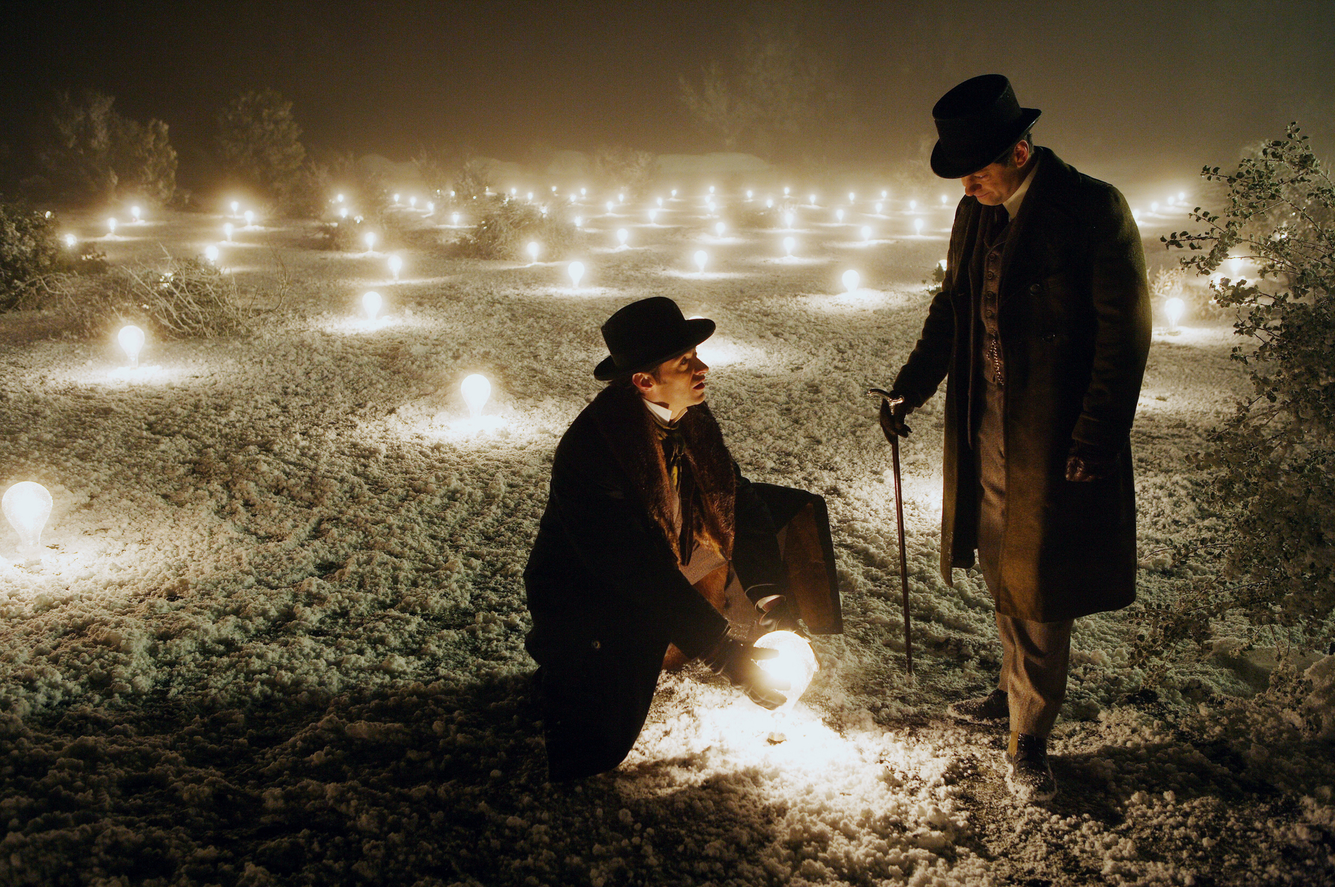
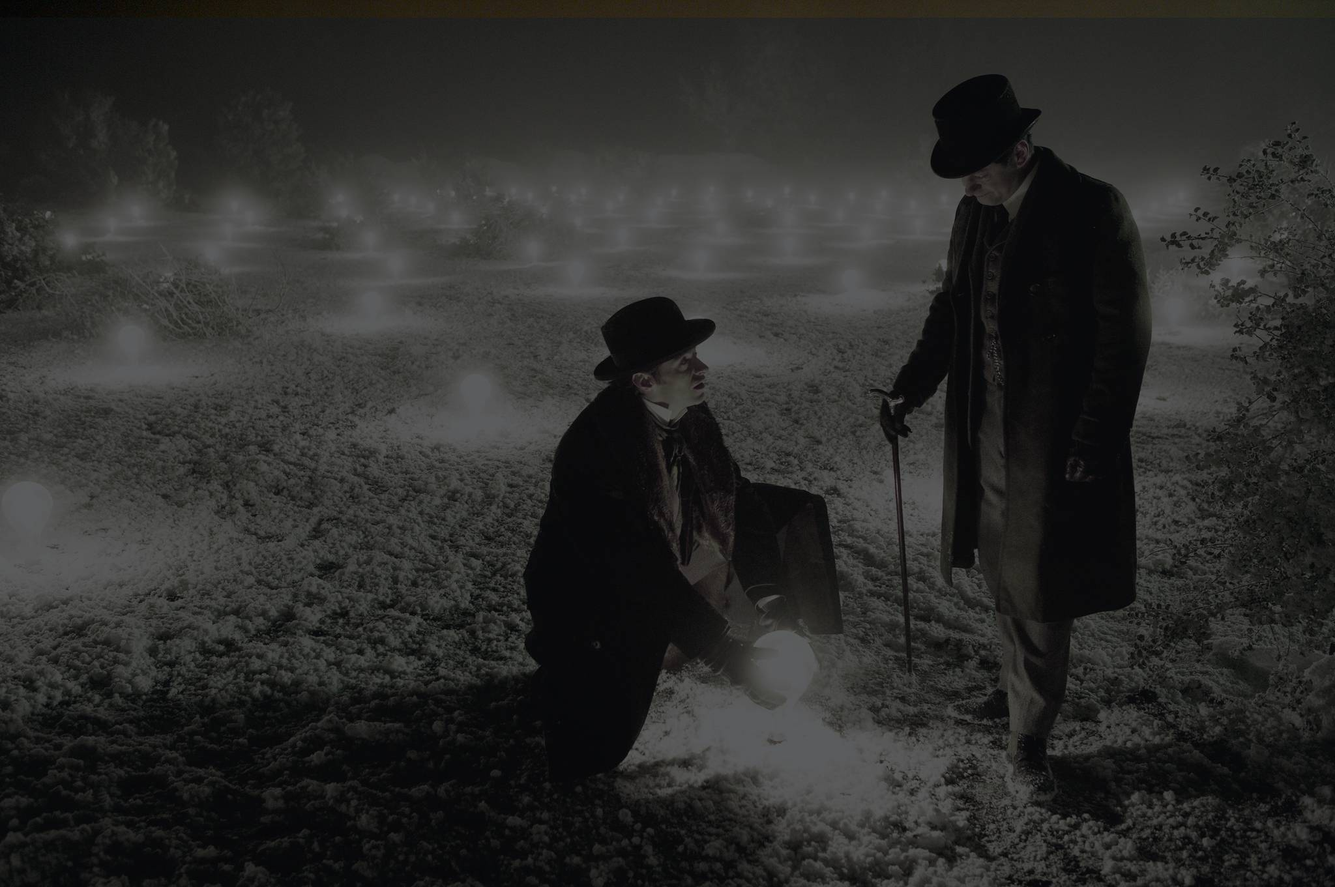
image and styling updates

diff --git a/index.html b/index.html
@@ -78,20 +78,16 @@
           <p class="fragment">...and that's ok</p>
         </section>
         <section>
-          Also, there aren't actually 7-reasons in this talk, so don't bother trying to count in your head. 
+          Also there aren't actually 7 reasons in this talk, so don't bother trying to count in <br> your head. 
         </section>
       </section>
 
-      <section data-background="images/prestige15.jpg">
+      <section data-background="images/prestige15.jpg" class="dark-bg">
         <section>
-          <span class="light">
-            Any sufficiently advanced technology is indistinguishable from magic.
-          </span>
+          Any sufficiently advanced technology is indistinguishable from magic.
         </section>
         <section>
-          <span class="light">
-            Cutting edge technology is just <br> <i>(a little bit)</i> magical.
-          </span>
+          Cutting edge technology is just <br> <i>(a little bit)</i> magical.
         </section>
       </section>
 
@@ -118,8 +114,8 @@
         <section>
           Machine Learning is about structure
         </section>
-        <section data-background="images/metropolis.jpg">
-          <span class="light">AI is about consciousness</span>
+        <section data-background="images/metropolis.jpg" class="dark-bg">
+          AI is about consciousness
         </section>
       </section>
 
@@ -178,8 +174,8 @@
         </section>
       </section>
 
-      <section data-background="images/light-field.png">
-        <h1>The Turn</h1>
+      <section data-background="images/light-field.jpg" class="dark-bg">
+        <h2>The turn</h2>
       </section>
 
       <section>
@@ -213,8 +209,8 @@
         <section>
           Patterns within patterns
         </section>
-        <section data-background="images/the-prestige-2.jpg">
-          <span class="light">"Deep" Learning</span>
+        <section data-background="images/the-prestige-2.jpg" class="dark-bg">
+          "Deep" Learning
         </section>
       </section>
 
@@ -248,16 +244,16 @@
 
       <section>
         <section>
-          The collision of though an information processing.
+          The collision of thought and information&nbsp;processing.
         </section>
         <section>
-          Conciousness is sufficiently advanced technology.
+          Conciousness is sufficiently advanced&nbsp;technology.
         </section>
         <section>
           Conciousness is the greatest magic trick there ever was.
         </section>
-        <section data-background="images/the-prestige.jpg">
-          We are the magician <br> and the audience.
+        <section data-background="images/the-prestige.jpg" class="dark-bg">
+          <h2>We are the magician and&nbsp;the audience</h2>
         </section>
       </section>
 

diff --git a/css/theme/ak.css b/css/theme/ak.css
@@ -95,7 +95,7 @@ body {
   font-weight: 700;
   line-height: 1.2;
   letter-spacing: normal;
-  text-transform: capitalize;
+  text-transform: none;
   text-shadow: none;
   word-wrap: break-word; }
 
@@ -334,3 +334,11 @@ body {
   -webkit-transition: width 800ms cubic-bezier(0.26, 0.86, 0.44, 0.985);
   -moz-transition: width 800ms cubic-bezier(0.26, 0.86, 0.44, 0.985);
   transition: width 800ms cubic-bezier(0.26, 0.86, 0.44, 0.985); }
+
+.dark-bg {
+  color: white;
+  text-shadow: 0 0 15px rgba(0, 0, 0, 0.5); }
+
+.reveal .dark-bg h1, .reveal .dark-bg h2, .reveal .dark-bg h3, .reveal .dark-bg h4, .reveal .dark-bg h5, .reveal .dark-bg h6 {
+  color: white;
+  text-shadow: 0 0 15px rgba(0, 0, 0, 0.5); }

diff --git a/css/theme/beige.css b/css/theme/beige.css
@@ -210,9 +210,9 @@ body {
 .reveal a {
   color: #8b743d;
   text-decoration: none;
-  -webkit-transition: color 0.15s ease;
-  -moz-transition: color 0.15s ease;
-  transition: color 0.15s ease; }
+  -webkit-transition: color .15s ease;
+  -moz-transition: color .15s ease;
+  transition: color .15s ease; }
 
 .reveal a:hover {
   color: #c0a86e;
@@ -237,9 +237,9 @@ body {
   box-shadow: none; }
 
 .reveal a img {
-  -webkit-transition: all 0.15s linear;
-  -moz-transition: all 0.15s linear;
-  transition: all 0.15s linear; }
+  -webkit-transition: all .15s linear;
+  -moz-transition: all .15s linear;
+  transition: all .15s linear; }
 
 .reveal a:hover img {
   background: rgba(255, 255, 255, 0.2);

diff --git a/css/theme/black.css b/css/theme/black.css
@@ -206,9 +206,9 @@ body {
 .reveal a {
   color: #42affa;
   text-decoration: none;
-  -webkit-transition: color 0.15s ease;
-  -moz-transition: color 0.15s ease;
-  transition: color 0.15s ease; }
+  -webkit-transition: color .15s ease;
+  -moz-transition: color .15s ease;
+  transition: color .15s ease; }
 
 .reveal a:hover {
   color: #8dcffc;
@@ -233,9 +233,9 @@ body {
   box-shadow: none; }
 
 .reveal a img {
-  -webkit-transition: all 0.15s linear;
-  -moz-transition: all 0.15s linear;
-  transition: all 0.15s linear; }
+  -webkit-transition: all .15s linear;
+  -moz-transition: all .15s linear;
+  transition: all .15s linear; }
 
 .reveal a:hover img {
   background: rgba(255, 255, 255, 0.2);

diff --git a/css/theme/league.css b/css/theme/league.css
@@ -212,9 +212,9 @@ body {
 .reveal a {
   color: #13DAEC;
   text-decoration: none;
-  -webkit-transition: color 0.15s ease;
-  -moz-transition: color 0.15s ease;
-  transition: color 0.15s ease; }
+  -webkit-transition: color .15s ease;
+  -moz-transition: color .15s ease;
+  transition: color .15s ease; }
 
 .reveal a:hover {
   color: #71e9f4;
@@ -239,9 +239,9 @@ body {
   box-shadow: none; }
 
 .reveal a img {
-  -webkit-transition: all 0.15s linear;
-  -moz-transition: all 0.15s linear;
-  transition: all 0.15s linear; }
+  -webkit-transition: all .15s linear;
+  -moz-transition: all .15s linear;
+  transition: all .15s linear; }
 
 .reveal a:hover img {
   background: rgba(255, 255, 255, 0.2);

diff --git a/css/theme/moon.css b/css/theme/moon.css
@@ -210,9 +210,9 @@ body {
 .reveal a {
   color: #268bd2;
   text-decoration: none;
-  -webkit-transition: color 0.15s ease;
-  -moz-transition: color 0.15s ease;
-  transition: color 0.15s ease; }
+  -webkit-transition: color .15s ease;
+  -moz-transition: color .15s ease;
+  transition: color .15s ease; }
 
 .reveal a:hover {
   color: #78b9e6;
@@ -237,9 +237,9 @@ body {
   box-shadow: none; }
 
 .reveal a img {
-  -webkit-transition: all 0.15s linear;
-  -moz-transition: all 0.15s linear;
-  transition: all 0.15s linear; }
+  -webkit-transition: all .15s linear;
+  -moz-transition: all .15s linear;
+  transition: all .15s linear; }
 
 .reveal a:hover img {
   background: rgba(255, 255, 255, 0.2);

diff --git a/css/theme/night.css b/css/theme/night.css
@@ -204,9 +204,9 @@ body {
 .reveal a {
   color: #e7ad52;
   text-decoration: none;
-  -webkit-transition: color 0.15s ease;
-  -moz-transition: color 0.15s ease;
-  transition: color 0.15s ease; }
+  -webkit-transition: color .15s ease;
+  -moz-transition: color .15s ease;
+  transition: color .15s ease; }
 
 .reveal a:hover {
   color: #f3d7ac;
@@ -231,9 +231,9 @@ body {
   box-shadow: none; }
 
 .reveal a img {
-  -webkit-transition: all 0.15s linear;
-  -moz-transition: all 0.15s linear;
-  transition: all 0.15s linear; }
+  -webkit-transition: all .15s linear;
+  -moz-transition: all .15s linear;
+  transition: all .15s linear; }
 
 .reveal a:hover img {
   background: rgba(255, 255, 255, 0.2);

diff --git a/css/theme/serif.css b/css/theme/serif.css
@@ -206,9 +206,9 @@ body {
 .reveal a {
   color: #51483D;
   text-decoration: none;
-  -webkit-transition: color 0.15s ease;
-  -moz-transition: color 0.15s ease;
-  transition: color 0.15s ease; }
+  -webkit-transition: color .15s ease;
+  -moz-transition: color .15s ease;
+  transition: color .15s ease; }
 
 .reveal a:hover {
   color: #8b7c69;
@@ -233,9 +233,9 @@ body {
   box-shadow: none; }
 
 .reveal a img {
-  -webkit-transition: all 0.15s linear;
-  -moz-transition: all 0.15s linear;
-  transition: all 0.15s linear; }
+  -webkit-transition: all .15s linear;
+  -moz-transition: all .15s linear;
+  transition: all .15s linear; }
 
 .reveal a:hover img {
   background: rgba(255, 255, 255, 0.2);

diff --git a/css/theme/simple.css b/css/theme/simple.css
@@ -206,9 +206,9 @@ body {
 .reveal a {
   color: #00008B;
   text-decoration: none;
-  -webkit-transition: color 0.15s ease;
-  -moz-transition: color 0.15s ease;
-  transition: color 0.15s ease; }
+  -webkit-transition: color .15s ease;
+  -moz-transition: color .15s ease;
+  transition: color .15s ease; }
 
 .reveal a:hover {
   color: #0000f1;
@@ -233,9 +233,9 @@ body {
   box-shadow: none; }
 
 .reveal a img {
-  -webkit-transition: all 0.15s linear;
-  -moz-transition: all 0.15s linear;
-  transition: all 0.15s linear; }
+  -webkit-transition: all .15s linear;
+  -moz-transition: all .15s linear;
+  transition: all .15s linear; }
 
 .reveal a:hover img {
   background: rgba(255, 255, 255, 0.2);

diff --git a/css/theme/sky.css b/css/theme/sky.css
@@ -213,9 +213,9 @@ body {
 .reveal a {
   color: #3b759e;
   text-decoration: none;
-  -webkit-transition: color 0.15s ease;
-  -moz-transition: color 0.15s ease;
-  transition: color 0.15s ease; }
+  -webkit-transition: color .15s ease;
+  -moz-transition: color .15s ease;
+  transition: color .15s ease; }
 
 .reveal a:hover {
   color: #74a7cb;
@@ -240,9 +240,9 @@ body {
   box-shadow: none; }
 
 .reveal a img {
-  -webkit-transition: all 0.15s linear;
-  -moz-transition: all 0.15s linear;
-  transition: all 0.15s linear; }
+  -webkit-transition: all .15s linear;
+  -moz-transition: all .15s linear;
+  transition: all .15s linear; }
 
 .reveal a:hover img {
   background: rgba(255, 255, 255, 0.2);

diff --git a/css/theme/solarized.css b/css/theme/solarized.css
@@ -210,9 +210,9 @@ body {
 .reveal a {
   color: #268bd2;
   text-decoration: none;
-  -webkit-transition: color 0.15s ease;
-  -moz-transition: color 0.15s ease;
-  transition: color 0.15s ease; }
+  -webkit-transition: color .15s ease;
+  -moz-transition: color .15s ease;
+  transition: color .15s ease; }
 
 .reveal a:hover {
   color: #78b9e6;
@@ -237,9 +237,9 @@ body {
   box-shadow: none; }
 
 .reveal a img {
-  -webkit-transition: all 0.15s linear;
-  -moz-transition: all 0.15s linear;
-  transition: all 0.15s linear; }
+  -webkit-transition: all .15s linear;
+  -moz-transition: all .15s linear;
+  transition: all .15s linear; }
 
 .reveal a:hover img {
   background: rgba(255, 255, 255, 0.2);

diff --git a/css/theme/white.css b/css/theme/white.css
@@ -206,9 +206,9 @@ body {
 .reveal a {
   color: #2a76dd;
   text-decoration: none;
-  -webkit-transition: color 0.15s ease;
-  -moz-transition: color 0.15s ease;
-  transition: color 0.15s ease; }
+  -webkit-transition: color .15s ease;
+  -moz-transition: color .15s ease;
+  transition: color .15s ease; }
 
 .reveal a:hover {
   color: #6ca0e8;
@@ -233,9 +233,9 @@ body {
   box-shadow: none; }
 
 .reveal a img {
-  -webkit-transition: all 0.15s linear;
-  -moz-transition: all 0.15s linear;
-  transition: all 0.15s linear; }
+  -webkit-transition: all .15s linear;
+  -moz-transition: all .15s linear;
+  transition: all .15s linear; }
 
 .reveal a:hover img {
   background: rgba(255, 255, 255, 0.2);
